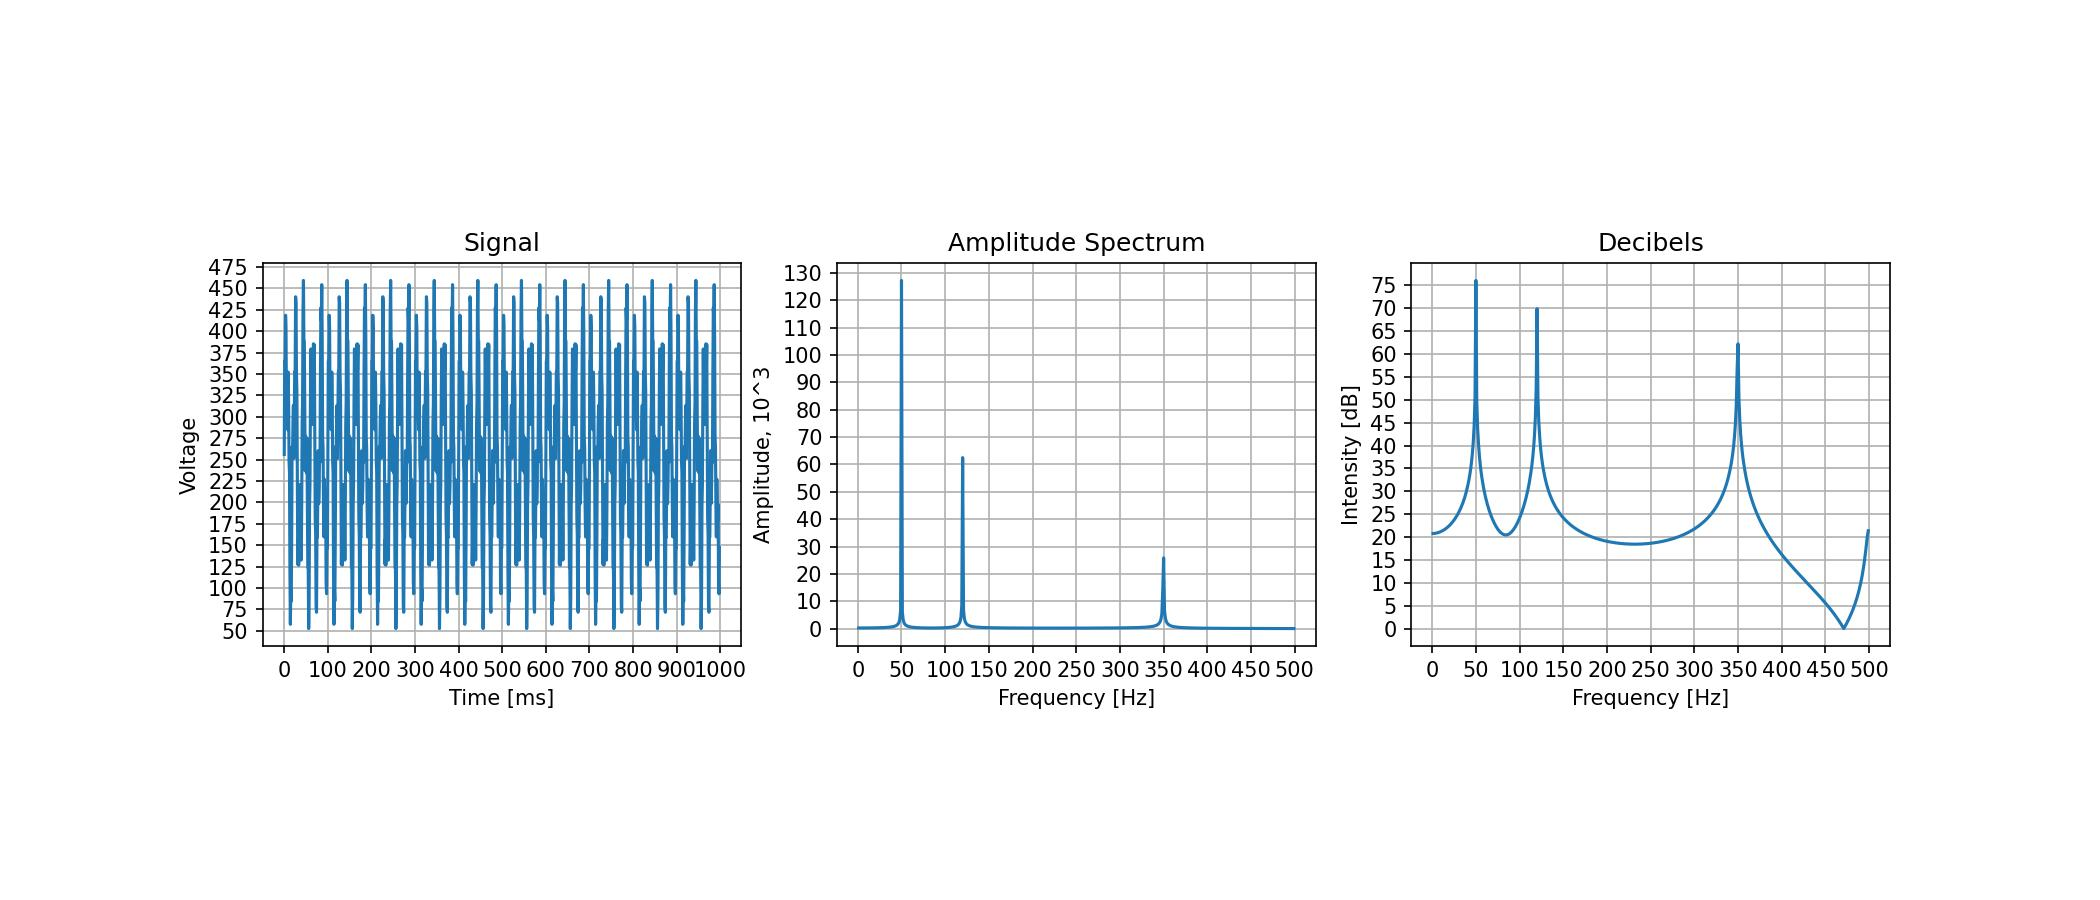
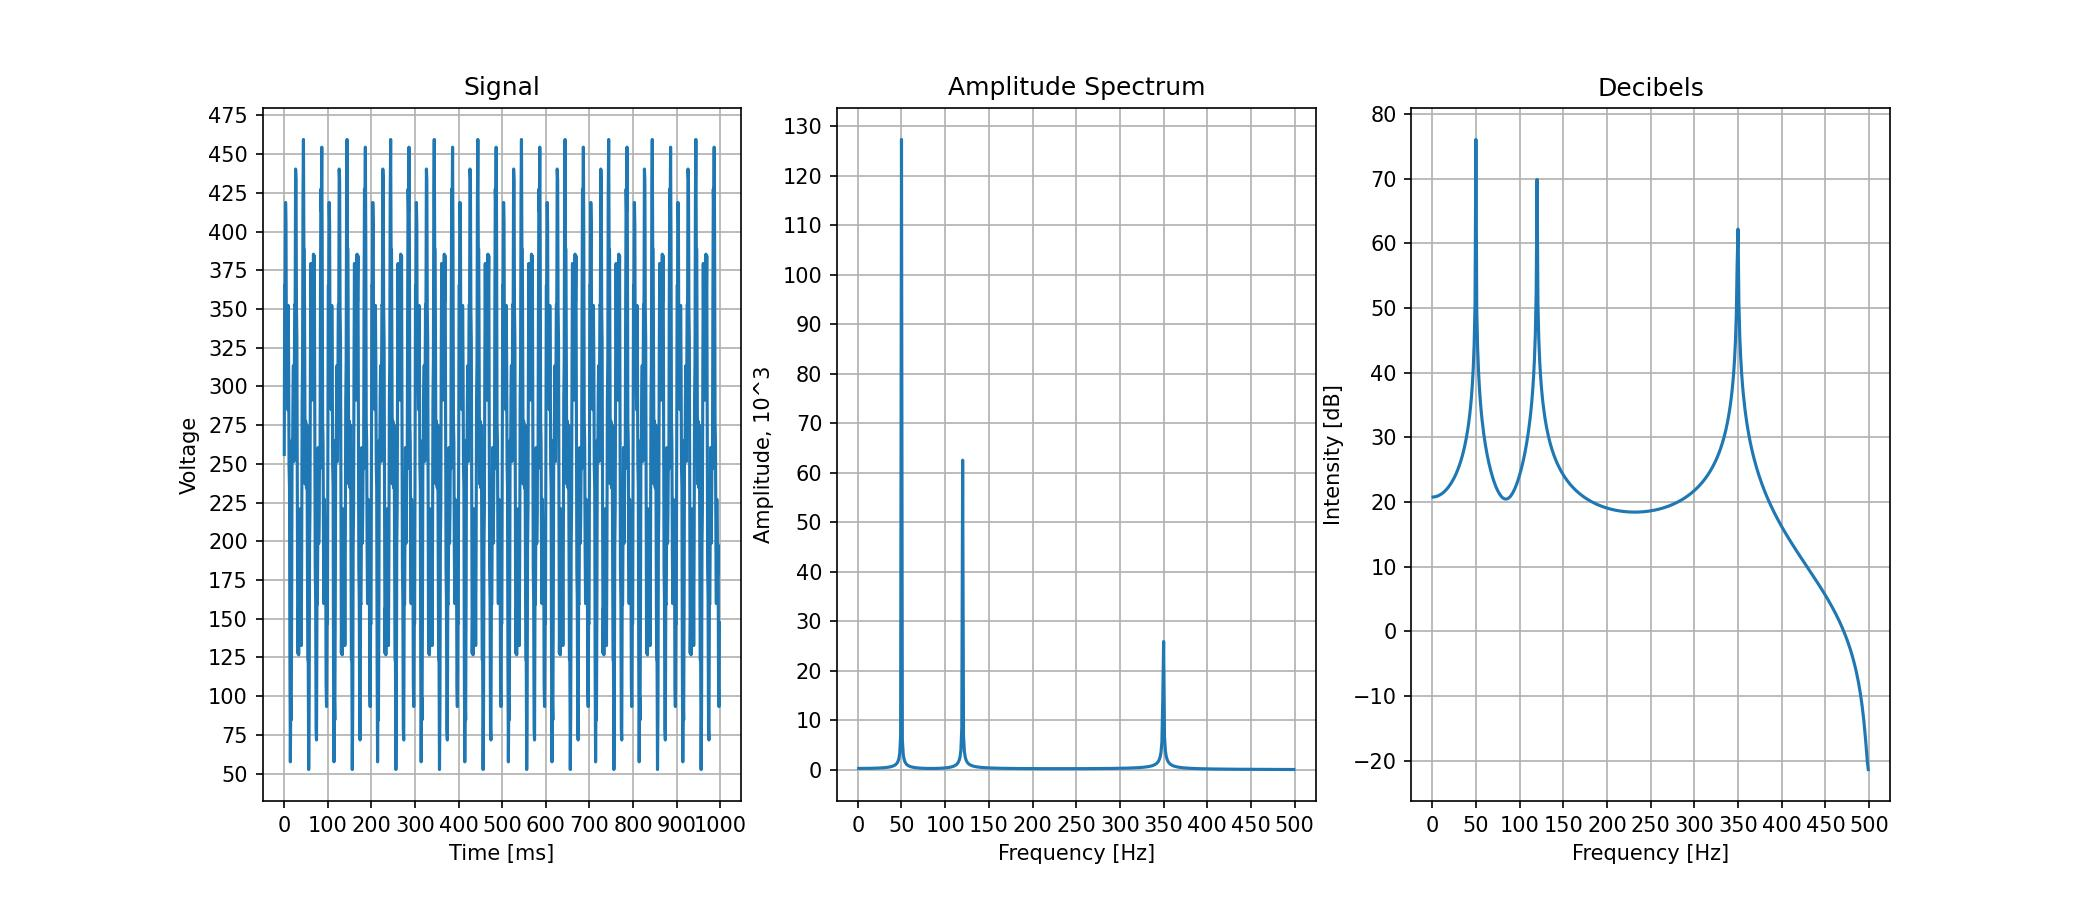
Server

diff --git a/RASPBERRY/main_server.py b/RASPBERRY/main_server.py
@@ -1,4 +1,9 @@
 import asyncio, yaml
+import scipy.io.wavfile as wf
+import numpy as np
+import matplotlib.pyplot as plt
+
+plt.ion()
 
 with open('config.yaml') as f:
     cfg = yaml.load(f, Loader=yaml.FullLoader)
@@ -25,7 +30,7 @@ class Server:
             print(f'Listening on [{self.port}]')
             await server.serve_forever()
     
-    async def get(self, reader, size=5120):
+    async def get(self, reader, size=50000):
         data = await reader.read(size)
         return data.decode()
     
@@ -38,9 +43,32 @@ class Server:
         await obj.wait_closed()
 
     async def on_connect(self, reader, writer):
+        # packet = ''
+        # while True:
+        #     message = await self.get(reader)
+        #     if message == '\n':
+        #         await self.close()
+        #         break
+        #     else:
+        #         packet += message
+        # print(packet)
         message = await self.get(reader)
-        print(f'[{self.port}] Data has been received: {message}')
-        await self.close(writer) # must-have
+        print(message)
+        cmd, idx, count, sample_rate = message.split()
+        idx, count, sample_rate = int(idx), int(count), int(sample_rate)
+        packet = ''
+        for i in range(count):
+            packet += await self.get(reader)
+        packet = list(map(lambda x: abs(4095 - int(x)), packet.split()))
+        print(len(packet))
+        t = np.linspace(0, 10, sample_rate)
+        plt.clf()
+        plt.plot(t, packet)
+        plt.show()
+        plt.pause(0.001)
+        packet = np.array(packet, dtype=np.int16)
+        wf.write('curr_sample.wav', sample_rate, packet)
+        await self.close(writer)
 
 server = Server(cfg['server_ip'], cfg['server_port'])
 

diff --git a/RASPBERRY/main_server_sync.py b/RASPBERRY/main_server_sync.py
@@ -1,0 +1,19 @@
+import socket, yaml
+import scipy.io.wavfile as wf
+import numpy as np
+
+with open('config.yaml') as f:
+    cfg = yaml.load(f, Loader=yaml.FullLoader)
+
+sample_rate = 8000
+
+with socket.socket(socket.AF_INET, socket.SOCK_STREAM) as sock:
+    sock.bind((cfg['server_ip'], cfg['server_port']))
+    sock.listen()
+    print(f'Listening on [{cfg['server_port']}]')
+    conn, addr = sock.accept()
+    message = conn.recv(16384)
+    message.decode()
+    print(message)
+data = np.linspace(0., 1., sample_rate)
+wf.write('curr_sample.wav', sample_rate, data.astype(np.int16))

diff --git a/RASPBERRY/plot.py b/RASPBERRY/plot.py
@@ -61,11 +61,11 @@ ax2.set_ylabel("Amplitude, 10^3")
 
 Y = dbfft(Y, 20)
 t = np.arange(1, L // 2)
-ax3.plot(t, abs(Y)[1:])
+ax3.plot(t, Y[1:])
 ax3.set_title("Decibels")
 ax3.set_xlabel("Frequency [Hz]")
 ax3.set_ylabel("Intensity [dB]")
 fig.set_size_inches(14, 6)
 fig.savefig('test.jpg', dpi=150)
-set_box_aspect
+# set_box_aspect
 plt.show()
